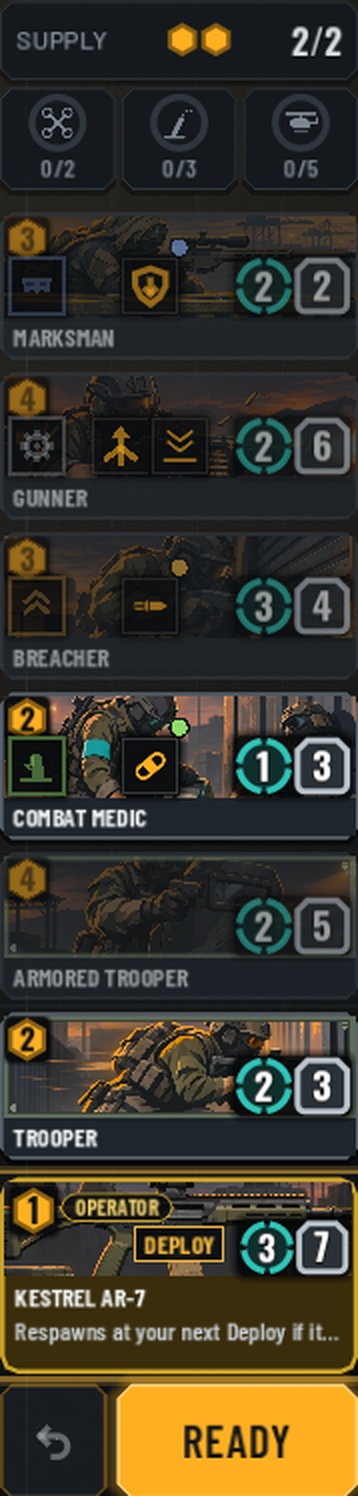
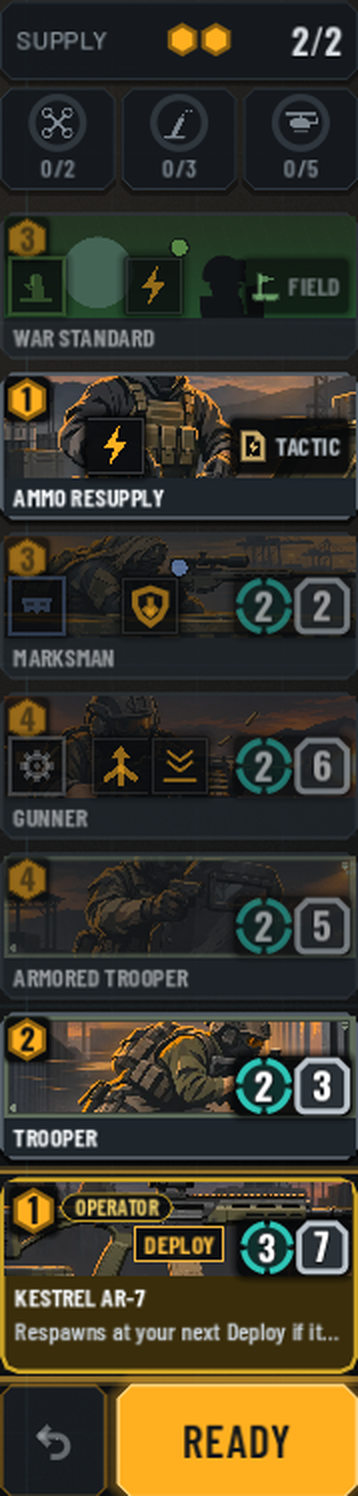
WIP kc-abc-labels + kc-deck-match: KillingCard column tiles and deck parity work in progress
Claude-Session: https://claude.ai/code/session_01JmVwVgoeVTdNBC1RfBf5V4

Changed region(s): [[0.0, 0.123, 1.0, 0.5535]]

diff --git a/projects/killingcard/documentation/ux/board-layout-v2.md b/projects/killingcard/documentation/ux/board-layout-v2.md
@@ -525,3 +525,43 @@ The head played on an iPad in landscape. The hand was one narrow column of five 
 - `compare_top_*` (abilities top-right).
 
 Each set has full, tray (2x), board (2x) and dock.
+
+## Implementation notes (kc-abc-labels, UI/UX Agent, 2026-11-07)
+The head: "Remove them; just A / B / C" (the CLOSE / MID / LONG range words). Also: "remove the firepower total on locations, it doesn't do much, just keep the location letter and leave more space for field card".
+
+- **Objective tile:**
+  - **Kept:** the column letter in its control mark (teal circle yours, red diamond rival, dashed square even, grey ring open). The shape still carries control at a glance.
+  - **Removed:** the range word and both Firepower totals.
+  - **Field chips:** the rest of the tile is now the Field chips with the Field's name (rival's on top, yours below). On the phone they are about 170 x 21; on desktop / iPad about 222 x 43. The chip's glyph is the Field type icon.
+  - **No Field on the tile:** the control word (YOURS / RIVAL / EVEN / OPEN) fills that space at 20 / 26 px.
+  - **Inspect:** long press / right click still opens the column inspector, which gives both sides' Firepower and the Fields.
+  - **Code:** `objective_tile.gd` (`field_area`, `chip_rects`, `control_word`).
+- **FRONT tabs:** they now sit over the letter mark, in its top / bottom margin, so they never cover a Field chip (`lane.gd`, `front_tab_x`).
+- **Texts:**
+  - The snapshot drops the lane `range` key.
+  - The column inspector's type reads "objective · column B".
+  - Glossary: the Objective tile entry is rewritten, and "range" is gone from the Firepower entry.
+  - The stat breakdown never names a range.
+  - Tutorial texts and the drone intel say "column A / B / C" instead of Left / Mid / Right (`data/tutorial/tutorial_script.tres`, `tutorial_director.gd`).
+  - The rules keep their internal range ids.
+- **QA:**
+  - `test_ipad_cards::test_objective_tile_letter_and_big_fields`.
+  - `test_cards_v2`: the FRONT tabs stay off the Field area.
+  - `test_tutorial`: the drone intel now reads "column B".
+  - Shots: `qa/screenshots/ipad-cards/after_abc_844x390_*`, `after_abc_1024x768_*`.
+
+## Implementation notes (kc-deck-match, UI/UX Agent, 2026-11-07)
+The head: "The starting deck shown when we start campaign doesn't match what I draw in game 1. Make sure we use the correct starting deck with mostly units and one kind of tactics. Tactic and Field cards should have a different icon."
+
+- **Cause:** in the private pitch build, `MatchController._play` ran `PitchDecks.apply_setup()` on both sides of every match. That included run matches and the tutorial, so match 1 drew Brawler, Fields and extra Tactics that the Loadout starter did not show. In the public build the decks already matched: `RunProgress.create` copies `RunConfig.starter_deck`, and the starter panel lists the same array.
+- **Fix:** `MatchController.pitch_swaps_apply()` is true only for the pitch build's Quick Match. Run matches and the tutorial never swap, on either side. `PitchDecks` itself is unchanged.
+- **Starter:** Grunt x5, Trooper x6, Sergeant x4, Armored Trooper x3 and Ammo Resupply x2: 18 units, one Tactic kind, no Field.
+- **Type icons:**
+  - **Glyphs:** `CardLook.draw_type_icon(kind)` asks the UI kit first (`type_tactic` / `type_field`, files `ico_type_tactic.png` / `ico_type_field.png`, already in the prompt pack, now with their motifs). The code fallbacks are an orders sheet with a bolt (Tactic, khaki) and a flag planted on ground (Field, green).
+  - **Where:** the Y2+ type line, the X1 hand card's kind badge, a statless board / inspector banner's kind word, the objective tile's Field chips, the glossary (new Tactic entry beside Field / Overrun) and the Codex TACTICS / FIELDS chips.
+  - **Codex:** the weapon-class filter chips are gone; `set_class_filter` stays as API.
+- **QA:**
+  - New `tests/test_deck_match.gd`: the starter has one Tactic kind and no Field; in both the public and the pitch-active build, the first run match's deck + hand equals the starter shown; the type icons and their placement are checked.
+  - `test_ui3`: the TACTICS / FIELDS chips have icons and there are no class chips.
+  - Shot: `after_abc_1024x768_tray_2x.png` (TACTIC and FIELD badges) and `after_abc_1024x768_dock.png` (Field type line).
+- **Totals:** 557 pass, 0 fail.

diff --git a/projects/killingcard/documentation/art/ui-kit-prompt-pack.md b/projects/killingcard/documentation/art/ui-kit-prompt-pack.md
@@ -592,6 +592,7 @@ Not generated. The rows stay in `ui-kit-manifest.csv` with `status` = RETIRED an
 - **Generate:** 1024x1024 (square 1:1). **Ship:** 256x256 master (export 128/64/48/32). **Background:** white on black: TA converts brightness to alpha.
 - **States:** normal / lit (tint) / idle grey (tint).
 - **Code id:** `type_tactic` (wired: IconSheet.get_icon / UiKit lookup). **Fallback:** code fallback kept.
+- **Motif (kc-deck-match, the head: "Tactic and Field cards should have a different icon"):** an orders sheet (folded corner) with a lightning bolt on it. Must read differently from the Field flag at 18 px. Code fallback: `CardLook.draw_type_icon`.
 
 ##### `ico_type_field.png` · P1 · Batch 6.3
 
@@ -600,6 +601,7 @@ Not generated. The rows stay in `ui-kit-manifest.csv` with `status` = RETIRED an
 - **States:** normal / lit (tint) / idle grey (tint).
 - **Code id:** `type_field` (wired: IconSheet.get_icon / UiKit lookup). **Fallback:** code fallback kept.
 - **Note:** Was type_equipment in the old sheet (keep the id alias).
+- **Motif (kc-deck-match):** a flag on a short pole planted on a strip of ground (terrain / zone), never a bolt. Also used on the objective tile's Field chips. Code fallback: `CardLook.draw_type_icon`.
 
 ##### `ico_type_killstreak.png` · P2 · Batch 13.3
 
